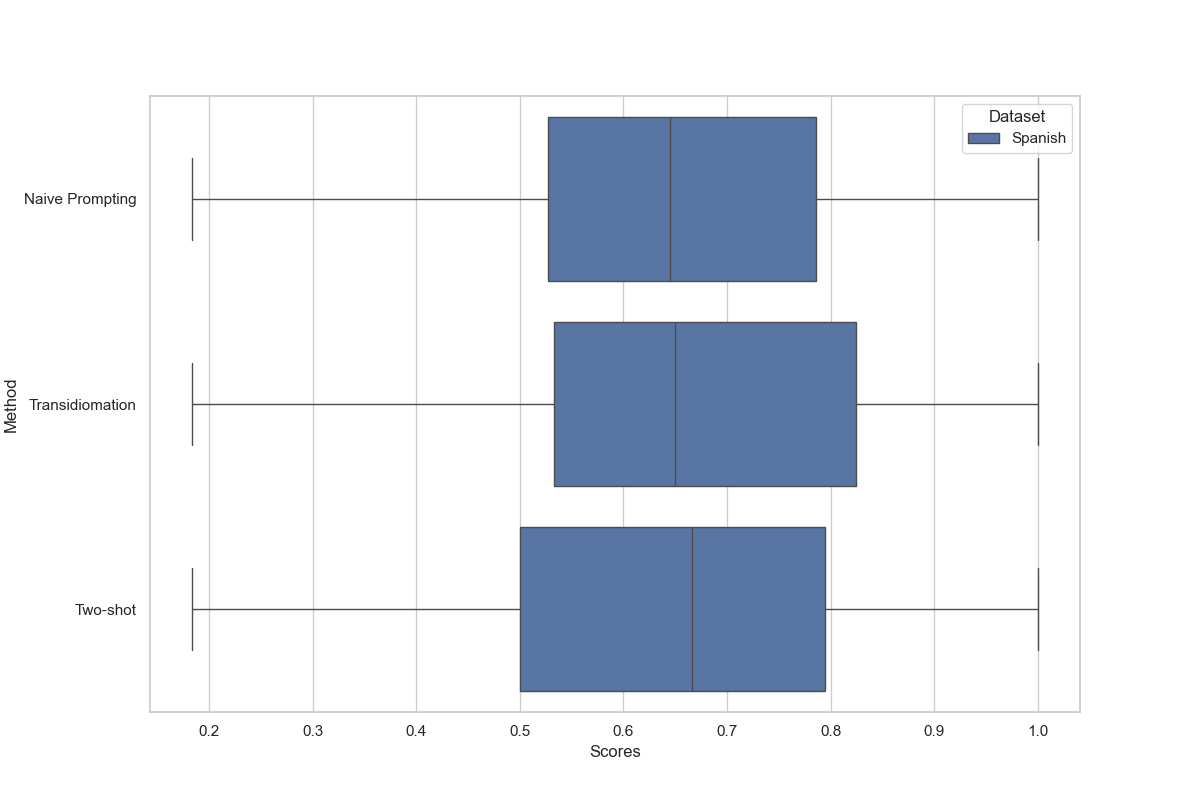
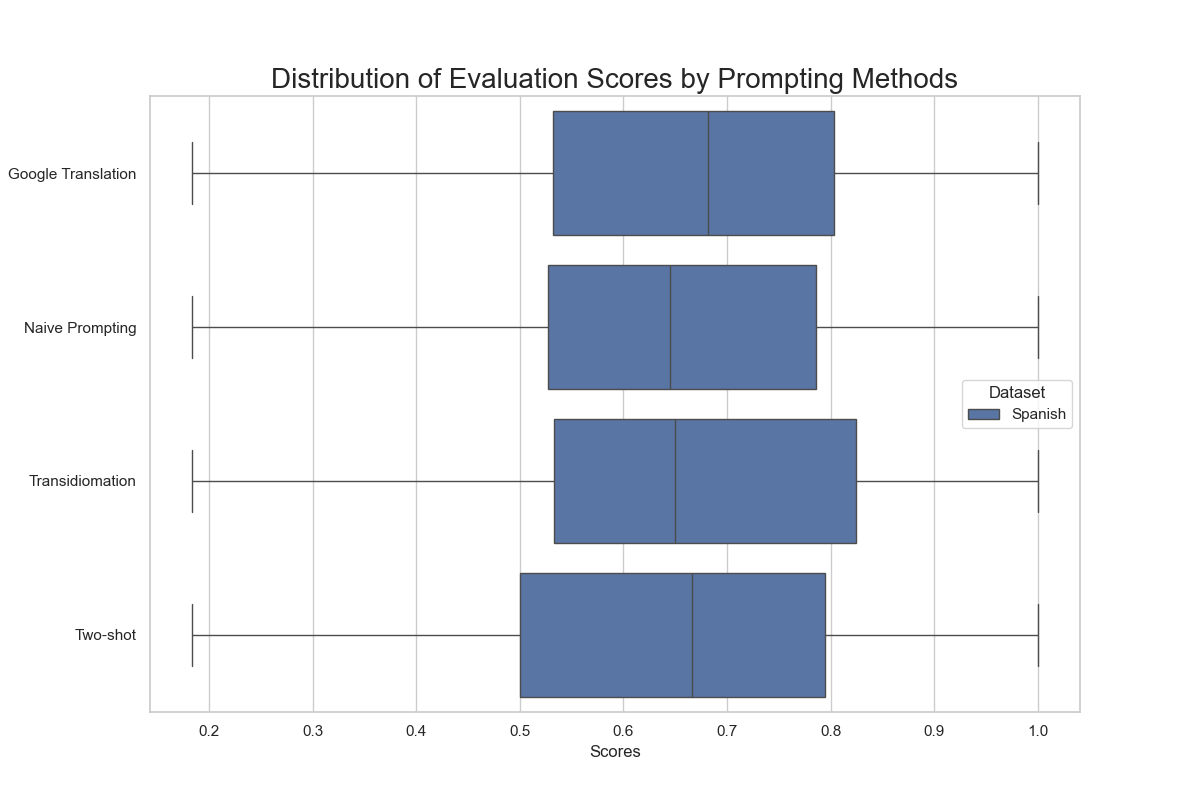
spanish google translation added

diff --git a/spanish_evaluation.py b/spanish_evaluation.py
@@ -17,27 +17,27 @@ from scipy.spatial.distance import cosine
 import tensorflow as tf
 from bleurt import score
 
-
-def calculate_similarity(embedding1, embedding2):
-    return 1 - cosine(embedding1, embedding2)
+openai.api_key = 'openai-api'
 file_path = './data/csv/spanish_idioms_dataset.csv'  # Replace 'your_file.csv' with the path to your CSV file
 data = pd.read_csv(file_path)
 
-openai.api_key = 'api-key'
+def calculate_similarity(embedding1, embedding2):
+    return 1 - cosine(embedding1, embedding2)
+
 def get_embedding(text):
     response = openai.Embedding.create(
         input=[text],
         engine="text-embedding-3-large")
     return response['data'][0]['embedding']
 
+
 if "idiom embedded in a sentence (Spanish)" in data.columns:
     spanish_idioms = data["idiom embedded in a sentence (Spanish)"].tolist()
 else:
-    print("Column not found. Please check the column name and try again.")
-    
+    print("Column not found. Please check the column name and try again.")  
 reference = spanish_idioms
-methods = ["Naive Prompt Metrics: ","Transidiomation Metrics: ","Two-shot Metrics: "]
-files = ["./data/json/spanish_naive_prompt_output.json","./data/json/spanish_transidiomation_prompt_output.json", "./data/json/spanish_two_shot_prompt_output.json"]
+methods = ["Google Machine Translation", "Naive Prompt Metrics: ","Transidiomation Metrics: ","Two-shot Metrics: "]
+files = ["./data/csv/google_spanish_machine_translation.csv", "./data/json/spanish_naive_prompt_output.json","./data/json/spanish_transidiomation_prompt_output.json", "./data/json/spanish_two_shot_prompt_output.json"]
 
 all_rouge_scores=[]
 all_wer_scores=[]
@@ -45,42 +45,58 @@ all_bleu_scores = []
 all_openai_scores=[]
 all_google_bleurt_scores=[]
 
+
 for prompt_no, file in enumerate(files):
     print(methods[prompt_no])
-    with open(file,'r') as file:  
-        data = json.load(file)
     hypothesis = []
-    if prompt_no == 0:
-        for obj in data:
-            modified = obj["generation"].replace("\n", "")
-            hypothesis.append(modified)
+    # Google translation
+    if not prompt_no:
+        with open(file,"r") as file:
+            data = pd.read_csv(file)
+        for row in data["Machine Translated by Google"]:    
+            hypothesis.append(row)
     
-    elif prompt_no == 1:
-        for obj in data:
-            modified = obj["generation"].replace("\n", "")
-            if "3. " in modified:
-                modified = modified.split("3. ")[1]
-                modified = modified.replace("Spanish translation: ", "")
-                modified = modified.replace("Give a Spanish translation of the sentence including that idiom: ", "")
-                modified = modified.replace("Spanish translation of the sentence:","")
-                modified = modified.replace('"', "")
-                hypothesis.append(modified) 
-            elif "3:" in modified:
-                modified = modified.split("3:")[1]
-                modified = modified.replace('"', "")
-                hypothesis.append(modified)          
-            else:
-                hypothesis.append("")
     else:
-        for obj in data:
-            modified = obj["generation"].replace("\n", "")
-            if "Full sentence translates to " in modified:
-                modified = modified.split("Full sentence translates to")[1]
-                modified = modified.replace("'", "")
+        with open(file,'r') as file:  
+            data = json.load(file)
+        # Naive
+        if prompt_no == 1:
+            for obj in data:
+                modified = obj["generation"].replace("\n", "")
                 hypothesis.append(modified)
-            else:
-                hypothesis.append("")
-    
+        
+        # Transidiomation
+        elif prompt_no == 2:
+            for obj in data:
+                modified = obj["generation"].replace("\n", "")
+                if "3. " in modified:
+                    modified = modified.split("3. ")[1]
+                    modified = modified.replace("Spanish translation: ", "")
+                    modified = modified.replace("Give a Spanish translation of the sentence including that idiom: ", "")
+                    modified = modified.replace("Spanish translation of the sentence:","")
+                    modified = modified.replace('"', "")
+                    hypothesis.append(modified) 
+                
+                elif "3:" in modified:
+                    modified = modified.split("3:")[1]
+                    modified = modified.replace('"', "")
+                    hypothesis.append(modified)          
+                
+                else:
+                    hypothesis.append("")
+        # Two shot
+        else:
+            for obj in data:
+                modified = obj["generation"].replace("\n", "")
+                
+                if "Full sentence translates to " in modified:
+                    modified = modified.split("Full sentence translates to")[1]
+                    modified = modified.replace("'", "")
+                    hypothesis.append(modified)
+                
+                else:
+                    hypothesis.append("")
+        
     # ROUGE metrics
     rouge = Rouge()
     total_scores =0.0
@@ -175,59 +191,72 @@ p_value_lst = []
 # Check out the graph in data/stats/spanish_{evaluation metric}.png
 for i in range(len(list(metric_score_lst.values()))):
     scores = [score for sublist in metric_score_lst[keys[i]] for score in sublist]
-    methods_json = ["Naive Prompting", "Transidiomation", "Two-shot"]
-    labels_json = [methods_json[i] for i, sublist in enumerate(metric_score_lst[keys[i]]) for _ in sublist]
-    scores_json = [score for sublist in metric_score_lst[keys[i]] for score in sublist]
-    scores_total = scores_json
-    labels_total = labels_json
-    dataset = ['Spanish']*len(scores_json)
+    methods_json = ["Google Translation", "Naive Prompting", "Transidiomation", "Two-shot"]
+    labels = [methods_json[i] for i, sublist in enumerate(metric_score_lst[keys[i]]) for _ in sublist]
+    # Create a single dataframe for both datasets
+    scores_total = scores
+    labels_total = labels
+    dataset = ['Spanish']*len(scores_total)
     df = pd.DataFrame({'Scores': scores_total, 'Method': labels_total, 'Dataset': dataset})
+    # Create the plot
     sns.set(style="whitegrid")
     plt.figure(figsize=(12, 8))
     sns.boxplot(x='Scores', y='Method', hue='Dataset', data=df, orient='h')
+    plt.title('Distribution of Evaluation Scores by Prompting Methods', fontsize=20)
+    plt.ylabel('Method', fontsize=16)
+    plt.legend(title='Dataset')
     plt.savefig(f'./output/stats/spanish_{keys[i]}.png')
+    google_scores = df['Scores'][df['Method'] == 'Google Translation']
     naive_scores = df['Scores'][df['Method'] == 'Naive Prompting']
     step_scores = df['Scores'][df['Method'] == 'Transidiomation']
     two_shot = df['Scores'][df['Method'] == 'Two-shot']
-    stat, p_value_naive_step = stats.mannwhitneyu(step_scores, naive_scores, alternative='two-sided')
-    stat, p_value_naive_chain = stats.mannwhitneyu(two_shot, naive_scores, alternative='two-sided')
-    stat, p_value_step_chain = stats.mannwhitneyu(two_shot, step_scores, alternative='two-sided')
-    print(f"P-value for naive vs. Transidiomation: {p_value_naive_step:.3f}")
-    print(f"P-value for naive vs. Two-shot: {p_value_naive_chain:.3f}")
-    print(f"P-value for Transidiomation vs. Two-shot: {p_value_step_chain:.3f}")
-    p_value_lst.append([p_value_naive_step,p_value_naive_chain,p_value_step_chain])
+    stat, p_value_step_google = stats.mannwhitneyu(step_scores, google_scores, alternative='two-sided')
+    stat, p_value_chain_google = stats.mannwhitneyu(two_shot, google_scores, alternative='two-sided')
+    stat, p_value_naive_google = stats.mannwhitneyu(naive_scores, google_scores, alternative='two-sided')
+    stat, p_value_step_naive = stats.mannwhitneyu(step_scores, naive_scores, alternative='two-sided')
+    stat, p_value_chain_naive = stats.mannwhitneyu(two_shot, naive_scores, alternative='two-sided')
+    stat, p_value_chain_step = stats.mannwhitneyu(two_shot, step_scores, alternative='two-sided')
+    print(f"P-value for Transidiomation vs. Google Translation: {p_value_step_google:.3f}")
+    print(f"P-value for Two-shot vs. Google Translation: {p_value_chain_google:.3f}")
+    print(f"P-value for Naive vs. Google Translation: {p_value_naive_google:.3f}")
+    print(f"P-value for Transidiomation vs. Naive: {p_value_step_naive:.3f}")
+    print(f"P-value Two-shot vs. Naive: {p_value_chain_naive:.3f}")
+    print(f"P-value for Two-shot vs. Transidiomation: {p_value_chain_step:.3f}")
+    p_value_lst.append([p_value_step_google,p_value_chain_google,p_value_naive_google,p_value_step_naive,p_value_chain_naive,p_value_chain_step])
 
 
 metric_score_lst  = {"BLEURT": all_google_bleurt_scores,"BLEU" :all_bleu_scores, "ROUGE":all_rouge_scores, "WER": all_wer_scores, "OpenAI": all_openai_scores}
 data = {
     "Comparison": [
-        "Naive vs. Transidiomation", "Naive vs. Two-shot", "Transidiomation vs. Two-shot",
-        "Naive vs. Transidiomation", "Naive vs. Two-shot", "Transidiomation vs. Two-shot",
-        "Naive vs. Transidiomation", "Naive vs. Two-shot", "Transidiomation vs. Two-shot",
-        "Naive vs. Transidiomation", "Naive vs. Two-shot", "Transidiomation vs. Two-shot",
-        "Naive vs. Transidiomation", "Naive vs. Two-shot", "Transidiomation vs. Two-shot"
+        "Naive vs. Transidiomation", "Naive vs. Two-shot", "Transidiomation vs. Two-shot", "Google Translation vs. Naive", "Google Translation vs. Transidiomation", "Google Translation vs. Two-shot",
 
+        "Naive vs. Transidiomation", "Naive vs. Two-shot", "Transidiomation vs. Two-shot", "Google Translation vs. Naive", "Google Translation vs. Transidiomation", "Google Translation vs. Two-shot",
+
+        "Naive vs. Transidiomation", "Naive vs. Two-shot", "Transidiomation vs. Two-shot", "Google Translation vs. Naive", "Google Translation vs. Transidiomation", "Google Translation vs. Two-shot",
+
+        "Naive vs. Transidiomation", "Naive vs. Two-shot", "Transidiomation vs. Two-shot", "Google Translation vs. Naive", "Google Translation vs. Transidiomation", "Google Translation vs. Two-shot",
+
+        "Naive vs. Transidiomation", "Naive vs. Two-shot", "Transidiomation vs. Two-shot", "Google Translation vs. Naive", "Google Translation vs. Transidiomation", "Google Translation vs. Two-shot"
     ],
     "Metric": [
-        "OpenAI", "OpenAI", "OpenAI",
-        "BLEURT", "BLEURT",  "BLEURT",
-        "ROUGE","ROUGE","ROUGE",
-        "WER","WER","WER",
-        "BLEU","BLEU","BLEU"
+        "OpenAI", "OpenAI", "OpenAI", "OpenAI", "OpenAI", "OpenAI",
+        "BLEURT", "BLEURT",  "BLEURT", "BLEURT", "BLEURT",  "BLEURT",
+        "ROUGE","ROUGE","ROUGE","ROUGE","ROUGE","ROUGE",
+        "WER","WER","WER","WER","WER","WER",
+        "BLEU","BLEU","BLEU", "BLEU","BLEU","BLEU"
         
     ],
     "P-Value": [
-        p_value_lst[4][0],p_value_lst[4][1],p_value_lst[4][2],
-        p_value_lst[0][0],p_value_lst[0][1],p_value_lst[0][2],
-        p_value_lst[2][0], p_value_lst[2][1],p_value_lst[2][2],
-        p_value_lst[3][0], p_value_lst[3][1], p_value_lst[3][2],
-        p_value_lst[1][0],p_value_lst[1][1],p_value_lst[1][2]
+        p_value_lst[4][3],p_value_lst[4][4],p_value_lst[4][5], p_value_lst[4][2],p_value_lst[4][0],p_value_lst[4][1],
+        p_value_lst[0][3],p_value_lst[0][4],p_value_lst[0][5], p_value_lst[0][2],p_value_lst[0][0],p_value_lst[0][1],
+        p_value_lst[2][3], p_value_lst[2][4],p_value_lst[2][5], p_value_lst[2][2], p_value_lst[2][0],p_value_lst[2][1],
+        p_value_lst[3][3], p_value_lst[3][4], p_value_lst[3][5], p_value_lst[3][2], p_value_lst[3][0], p_value_lst[3][1],
+        p_value_lst[1][3],p_value_lst[1][4],p_value_lst[1][5],  p_value_lst[1][2],p_value_lst[1][0],p_value_lst[1][1]
     ]
 }
 
-
-# Statistical signigificance test between prompting methods based on evaluation metrics
-# Check out the graph in output/stats/spanish_p_values.png
+# # Statistical signigificance test between prompting methods based on evaluation metrics
+# # Check out the graph in output/stats/spanish_p_values.png
 df = pd.DataFrame(data)
 sns.set(style="whitegrid")
 plt.figure(figsize=(12, 6))
